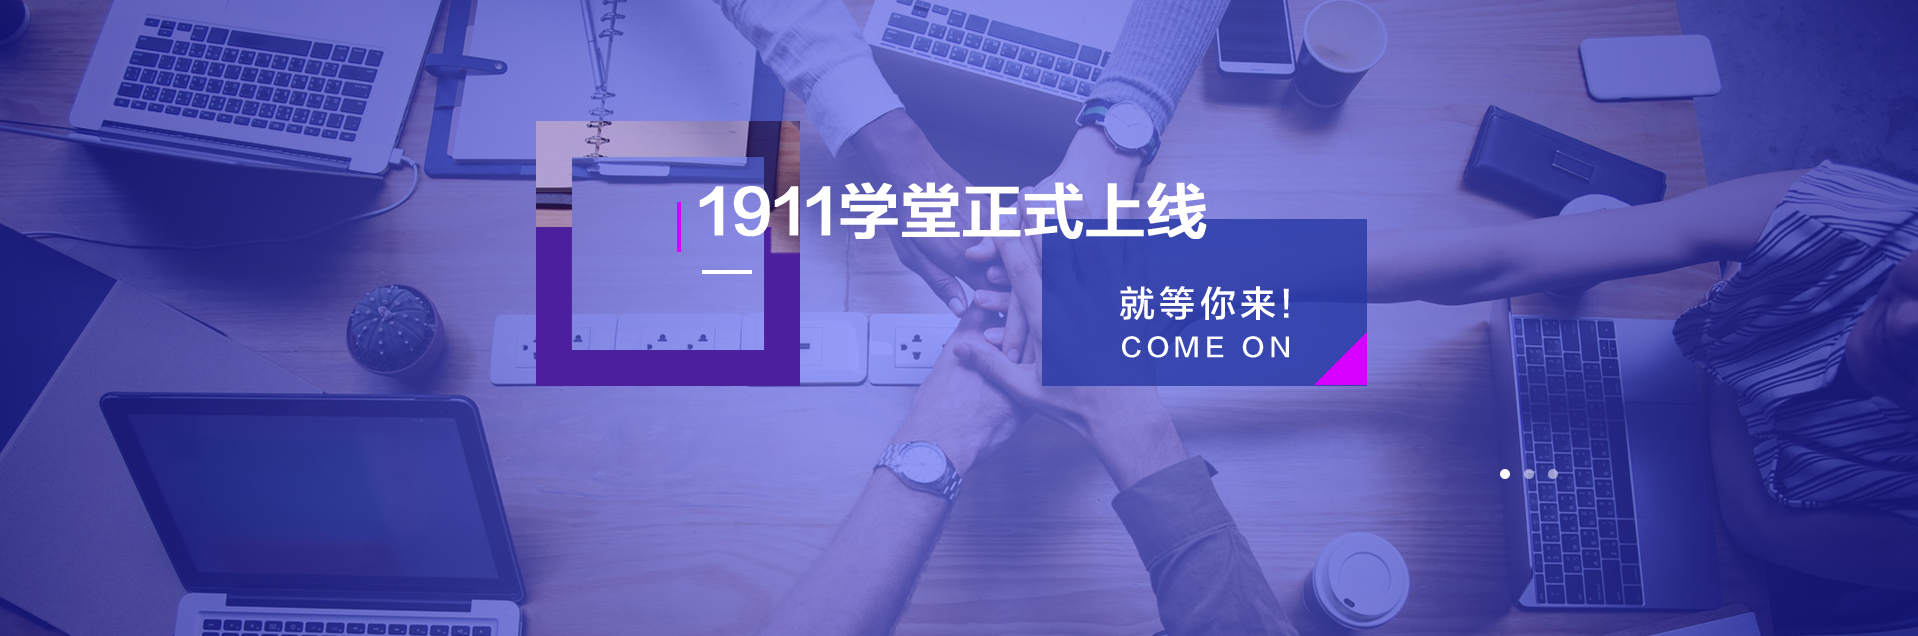
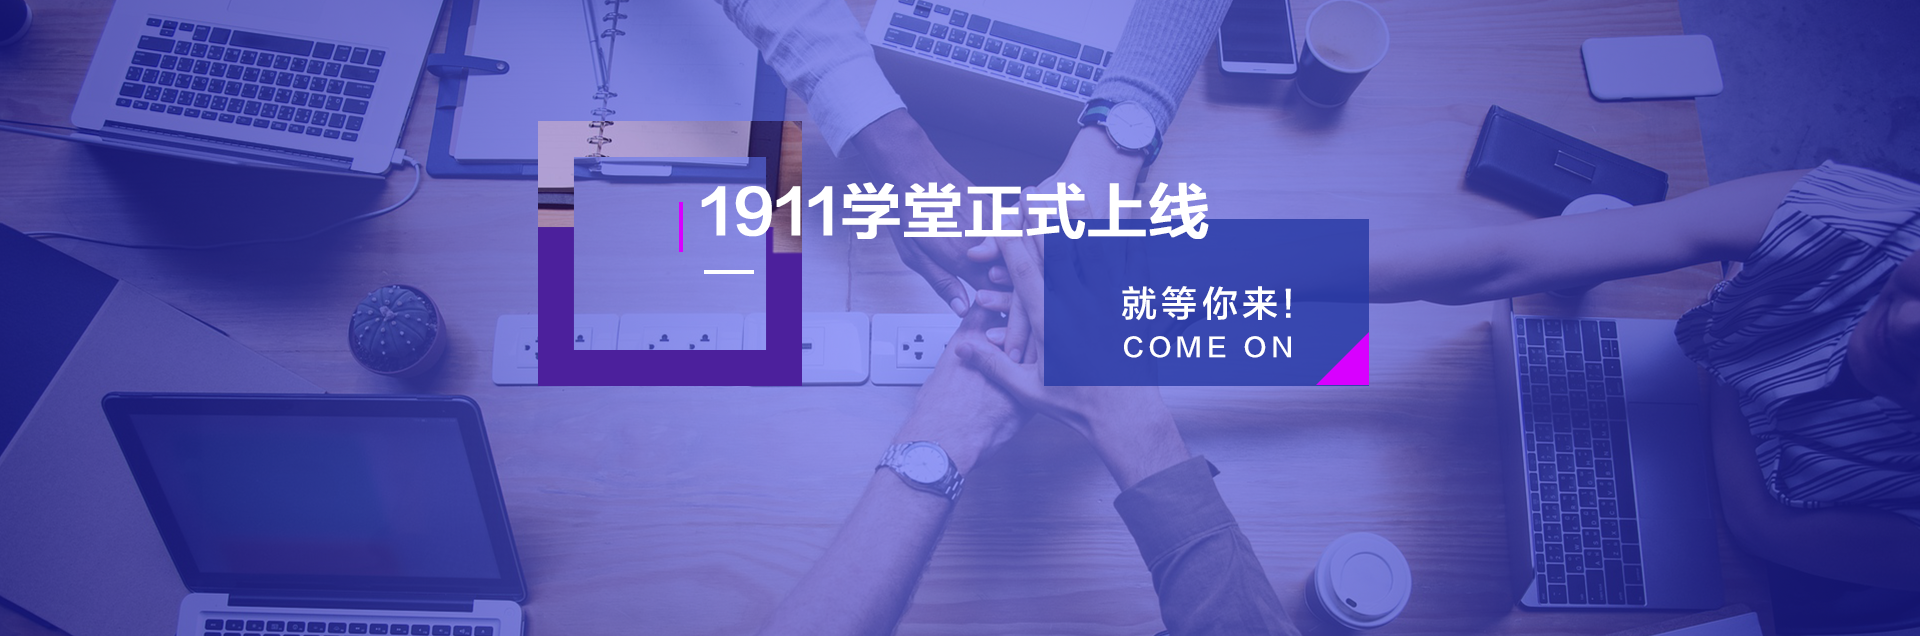
update

diff --git a/assets/style/element.scss b/assets/style/element.scss
@@ -31,8 +31,6 @@
 
 .el-carousel__indicators {
   bottom: 145px;
-  left: auto;
-  right: 0;
 }
 
 .el-carousel__button {
@@ -124,8 +122,9 @@
 
 }
   .el-carousel__indicators {
-    // display: none;
-    margin-bottom: 22px!important;
+    width: 1100px;
+    text-align: right;
+    margin: 0 auto;
   }
   .home-evaluate{
     .el-carousel__indicators{
